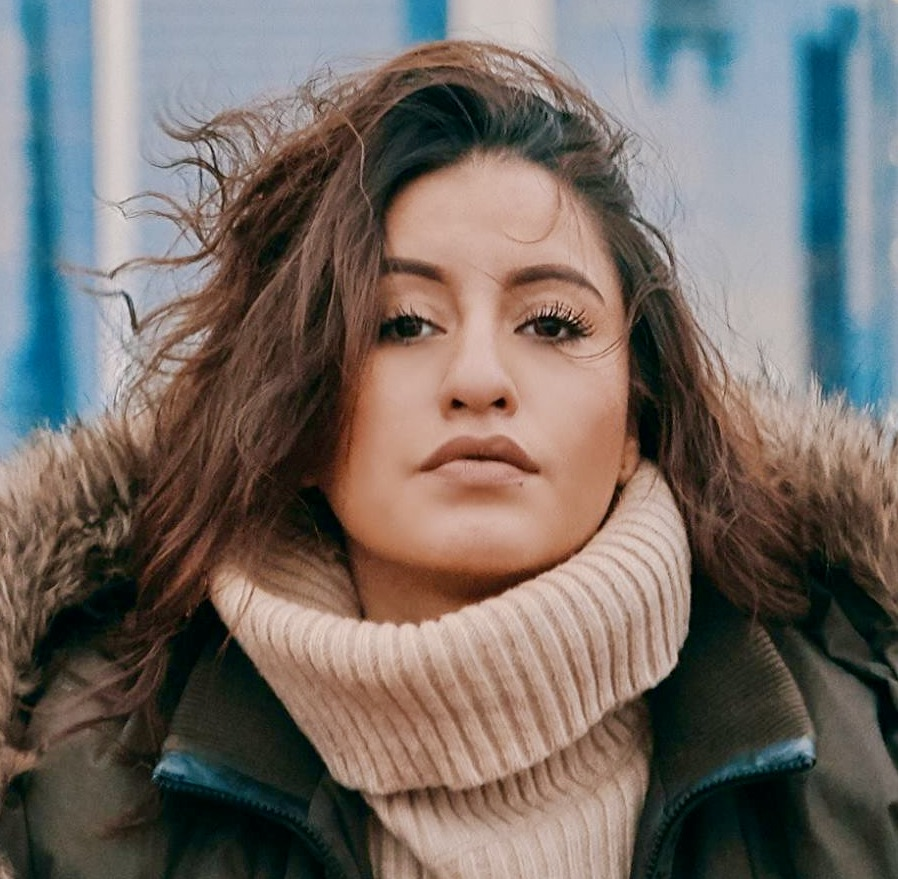
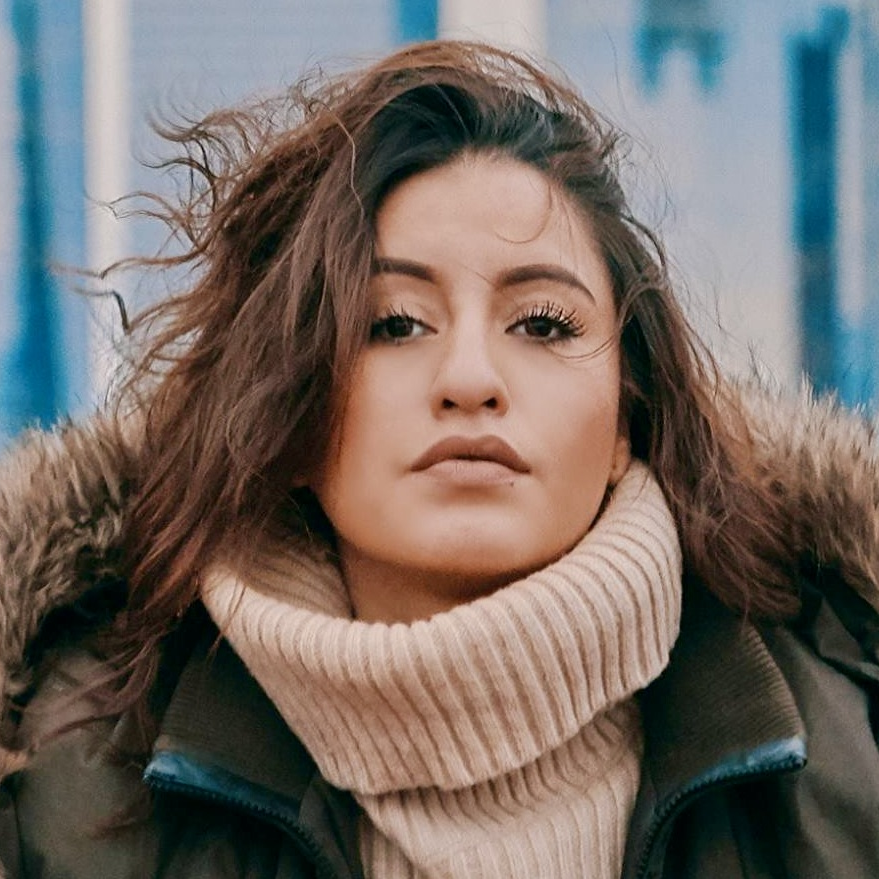
adjust team picture sizing

diff --git a/public/index.html b/public/index.html
@@ -10,7 +10,7 @@
     <link href="https://gmpg.org/xfn/11" rel="profile" />
     <meta http-equiv="content-type" content="text/html; charset=utf-8" />
     <meta property="og:image" content="/assets/artemis-github-social.png" />
-    <meta name="generator" content="Hugo 0.106.0">
+    <meta name="generator" content="Hugo 0.110.0">
 
     
     <meta name="viewport" content="width=device-width, initial-scale=1.0" />
@@ -162,7 +162,12 @@
 </figure>
 
 <p>As more events are triggered, the FaaS provider is responsible for <strong>automating the provisioning</strong> of computation resources and <strong>horizontally scaling</strong> function instances in response to demand; this eliminates the need for frequent hands-on management.</p>
-<p>This is contrary to a system where a service is deployed on a server which the developer has to manage. The server is kept continuously running, ready to respond to any incoming requests. If demand increases more than the server can handle, requests are ultimately refused and scaling will need to happen manually.</p>
+<p>This is contrary to a system where a service is deployed on a server which the developer has to manage. The server is kept continuously running, ready to respond to any incoming requests. If demand increases more than the s1 - 1st interview request received
+Jan 13 - HR screen with Cynthia Coulis (Talent lead, Wavelo)</p>
+<pre><code>Relatively positive, seemed like Cynthia liked me
+Posting team looking for 2+ of production experience shipping code so I don't quite fit but Cynthia identified two other teams that may be a fit (site reliability, Ruby-based product team).  She's going to try to get me an interview with the Ruby team (SRE team not looking for people at the moment, Ruby-based team more likely)
+Cynthia sent names/LinkedIn profile for key members of SRE and Ruby-based teams at Wavelo as well as a SWE workin
+</code></pre>
 <figure><img src="/assets/single-server.gif"
          alt="Figure 2.4 Single server system"/><figcaption>
             <p>Figure 2.4 Single server system</p>

diff --git a/public/posts/case-study/index.html b/public/posts/case-study/index.html
@@ -10,7 +10,7 @@
     <link href="https://gmpg.org/xfn/11" rel="profile" />
     <meta http-equiv="content-type" content="text/html; charset=utf-8" />
     <meta property="og:image" content="/assets/artemis-github-social.png" />
-    <meta name="generator" content="Hugo 0.106.0">
+    <meta name="generator" content="Hugo 0.110.0">
 
     
     <meta name="viewport" content="width=device-width, initial-scale=1.0" />
@@ -144,7 +144,12 @@
 </figure>
 
 <p>As more events are triggered, the FaaS provider is responsible for <strong>automating the provisioning</strong> of computation resources and <strong>horizontally scaling</strong> function instances in response to demand; this eliminates the need for frequent hands-on management.</p>
-<p>This is contrary to a system where a service is deployed on a server which the developer has to manage. The server is kept continuously running, ready to respond to any incoming requests. If demand increases more than the server can handle, requests are ultimately refused and scaling will need to happen manually.</p>
+<p>This is contrary to a system where a service is deployed on a server which the developer has to manage. The server is kept continuously running, ready to respond to any incoming requests. If demand increases more than the s1 - 1st interview request received
+Jan 13 - HR screen with Cynthia Coulis (Talent lead, Wavelo)</p>
+<pre><code>Relatively positive, seemed like Cynthia liked me
+Posting team looking for 2+ of production experience shipping code so I don't quite fit but Cynthia identified two other teams that may be a fit (site reliability, Ruby-based product team).  She's going to try to get me an interview with the Ruby team (SRE team not looking for people at the moment, Ruby-based team more likely)
+Cynthia sent names/LinkedIn profile for key members of SRE and Ruby-based teams at Wavelo as well as a SWE workin
+</code></pre>
 <figure><img src="/assets/single-server.gif"
          alt="Figure 2.4 Single server system"/><figcaption>
             <p>Figure 2.4 Single server system</p>

diff --git a/public/404.html b/public/404.html
@@ -10,7 +10,7 @@
     <link href="https://gmpg.org/xfn/11" rel="profile" />
     <meta http-equiv="content-type" content="text/html; charset=utf-8" />
     <meta property="og:image" content="/assets/artemis-github-social.png" />
-    <meta name="generator" content="Hugo 0.106.0">
+    <meta name="generator" content="Hugo 0.110.0">
 
     
     <meta name="viewport" content="width=device-width, initial-scale=1.0" />

diff --git a/public/categories/index.html b/public/categories/index.html
@@ -10,7 +10,7 @@
     <link href="https://gmpg.org/xfn/11" rel="profile" />
     <meta http-equiv="content-type" content="text/html; charset=utf-8" />
     <meta property="og:image" content="/assets/artemis-github-social.png" />
-    <meta name="generator" content="Hugo 0.106.0">
+    <meta name="generator" content="Hugo 0.110.0">
 
     
     <meta name="viewport" content="width=device-width, initial-scale=1.0" />

diff --git a/public/posts/index.html b/public/posts/index.html
@@ -10,7 +10,7 @@
     <link href="https://gmpg.org/xfn/11" rel="profile" />
     <meta http-equiv="content-type" content="text/html; charset=utf-8" />
     <meta property="og:image" content="/assets/artemis-github-social.png" />
-    <meta name="generator" content="Hugo 0.106.0">
+    <meta name="generator" content="Hugo 0.110.0">
 
     
     <meta name="viewport" content="width=device-width, initial-scale=1.0" />

diff --git a/public/tags/index.html b/public/tags/index.html
@@ -10,7 +10,7 @@
     <link href="https://gmpg.org/xfn/11" rel="profile" />
     <meta http-equiv="content-type" content="text/html; charset=utf-8" />
     <meta property="og:image" content="/assets/artemis-github-social.png" />
-    <meta name="generator" content="Hugo 0.106.0">
+    <meta name="generator" content="Hugo 0.110.0">
 
     
     <meta name="viewport" content="width=device-width, initial-scale=1.0" />

diff --git a/content/posts/case-study.md b/content/posts/case-study.md
@@ -40,7 +40,12 @@ A microservices architecture can be composed of services deployed on their own s
 
 As more events are triggered, the FaaS provider is responsible for **automating the provisioning** of computation resources and **horizontally scaling** function instances in response to demand; this eliminates the need for frequent hands-on management.
 
-This is contrary to a system where a service is deployed on a server which the developer has to manage. The server is kept continuously running, ready to respond to any incoming requests. If demand increases more than the server can handle, requests are ultimately refused and scaling will need to happen manually.
+This is contrary to a system where a service is deployed on a server which the developer has to manage. The server is kept continuously running, ready to respond to any incoming requests. If demand increases more than the s1 - 1st interview request received
+Jan 13 - HR screen with Cynthia Coulis (Talent lead, Wavelo)
+
+    Relatively positive, seemed like Cynthia liked me
+    Posting team looking for 2+ of production experience shipping code so I don't quite fit but Cynthia identified two other teams that may be a fit (site reliability, Ruby-based product team).  She's going to try to get me an interview with the Ruby team (SRE team not looking for people at the moment, Ruby-based team more likely)
+    Cynthia sent names/LinkedIn profile for key members of SRE and Ruby-based teams at Wavelo as well as a SWE workin
 
 {{< figure src="/assets/single-server.gif" alt="Figure 2.4 Single server system" caption="Figure 2.4 Single server system" >}}
 
